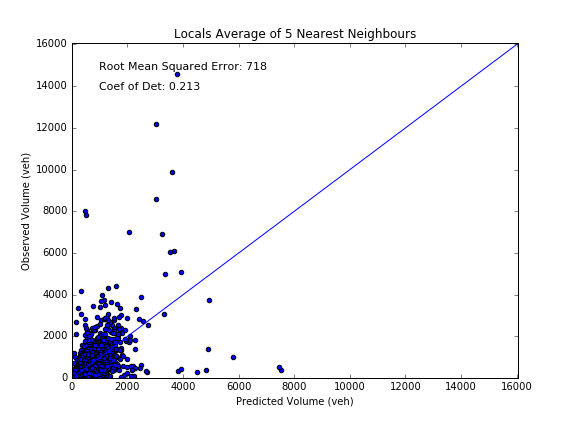
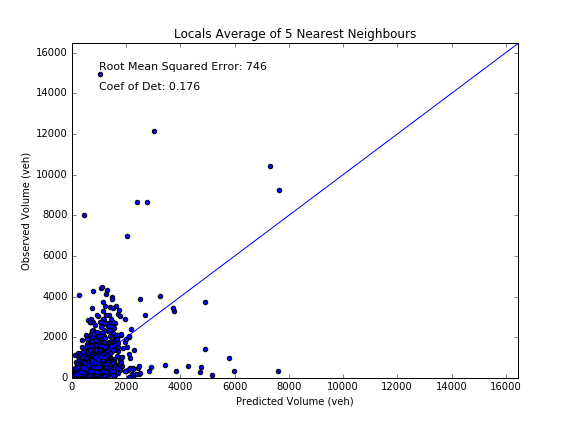
Fill in entire city by spatial relations
#43

diff --git a/volume_project/spatial_extrapolation/spatial_extrapolation.py b/volume_project/spatial_extrapolation/spatial_extrapolation.py
@@ -31,35 +31,107 @@ from utilities import vol_utils
 
 class spatial_extrapolation(vol_utils):    
 
-    def __init__(self, sample_size):
+    def __init__(self):
         self.logger = logging.getLogger('volume_project.spatial_extrapolation')
         super().__init__()
         self.rc_lookup = {201200:'Major Arterials', 201300:'Minor Arterials', 201400:'Collectors', 201500:'Locals'}
-        self.sample_size = sample_size
+           
+    def fill_all(self):
+        self.logger.info('Filling in Locals')
+        self.average_neighbours(201500)
+        self.logger.info('Filling in Collectors')
+        self.average_neighbours(201400)
+        self.logger.info('Filling in Minor Arterials')
+        self.linear_regression_directional(201300)
+        self.average_neighbours(201300)
+        self.logger.info('Filling in Major Arterials')
+        self.linear_regression_directional(201200)
+        self.average_neighbours(201200)
+        
+    def average_neighbours(self, road_class):
+        
+        data = self.get_sql_results("query_avg_neighbour_volumes.sql",columns = ['group_number', 'dir_bin', 'neighbour_vol'], parameters = [road_class])
+        data = [[None, a, 2015, b, c, 3] for a, b, c in zip(data['dir_bin'], data['neighbour_vol'], data['group_number'])]
+        self.db.inserttable('prj_volume.aadt', data)
+        self.logger.info('Uploaded results for road class ' + self.rc_lookup[road_class] +' to prj_volume.aadt. Estimated by averaging neighbour volumes')
+        
+    def average_neighbours_eval(self, road_class, sample_size):
+        if sample_size < 1:
+            sample_size = sample_size*100
+            
+        data = self.get_sql_results("query_avg_neighbour_volumes_eval.sql",columns = ['group_number','neighbour_vol','volume'], parameters = [road_class, sample_size])
+        y_predict = data['neighbour_vol']
+        y_test = data['volume']
+        
+        self.scatterplot(y_predict, y_test, road_class, r2_score(y_test, y_predict), 'neighbour_avg', ' Average of 5 Nearest Neighbours')
+        self.logger.info('Average of Neighbour Volumes Evaluation for road class' + self.rc_lookup[road_class] + 'done.')
         
     def get_coord_data(self, road_class):
-        
         return self.get_sql_results("query_coord_volume.sql",['from_x','from_y','to_x','to_y','volume'], parameters=[road_class])
-     
-    def GP_Kriging(self, data):
-        volume = np.array(data['volume'])
-        coord = np.array(data[['from_x','from_y','to_x','to_y']])
+
+    def get_directional_rel_groups(self, road_class):
+        return self.get_sql_results("query_relation_groups_train.sql",columns = ['group_number','neighbour_vol','volume'], parameters = [road_class])
         
-        coord = preprocessing.normalize(coord, axis=0)
-        x_train, x_test, y_train, y_test = train_test_split(coord, volume, test_size=self.sample_size/100, random_state=0)
-        kernel = RationalQuadratic(length_scale=1.0, length_scale_bounds=(1e-1, 10.0)) * RationalQuadratic(length_scale=1.0, length_scale_bounds=(1e-1, 10.0)) * ExpSineSquared(length_scale=1.0, length_scale_bounds=(1e-1, 10.0)) * ExpSineSquared(length_scale=1.0, length_scale_bounds=(1e-1, 10.0))
-        gp = GaussianProcessRegressor(kernel=kernel)
-        gp.fit(x_train, y_train)
+    def get_directional_rel_groups_test(self, road_class):
+        return self.get_sql_results("query_relation_groups_test.sql",columns = ['group_number','dir_bin', 'neighbour_vol'], parameters = [road_class])
         
-        y_mean = gp.predict(x_test, return_std=False)
-        plt.scatter(y_mean, y_test)
+    def get_neighbour_data(self, road_class, nNeighbours):
+        return self.get_sql_results("query_neighbour_volume.sql", columns = ['group_number','dir_bin','neighbour_vol'], parameters = [road_class, nNeighbours])
         
-        #lims = [np.min([plt.xlim(), plt.ylim()]), np.max([plt.xlim(), plt.ylim()])]
-        #plt.plot(lims, lims,'k-')
-        plt.show()
-    
-    def Linear_Regression_Prox(self, data, road_class):
-    
+    def linear_regression_directional(self, road_class, sample_size = 1):
+        if sample_size > 1:
+            sample_size = sample_size / 100
+            
+        data = self.get_directional_rel_groups(road_class)
+        self.logging.debug('Linear Regression Directional - Got Trainig Data')
+        neighb = list(data[data['neighbour_vol'].map(len) == 4]['neighbour_vol'])
+        orig = list(data[data['neighbour_vol'].map(len) == 4]['volume'])
+        if sample_size != 1:
+            x_train, x_test, y_train, y_test = train_test_split(neighb, orig, test_size=sample_size, random_state=0)
+        else:
+            x_train = neighb
+            y_train = orig
+        
+        regr = linear_model.LinearRegression()
+        regr.fit(x_train, y_train)
+        self.logging.debug('Linear Regression Directional - Trained')
+        if sample_size != 1:
+            y_predict = regr.predict(x_test)
+            self.scatterplot(y_predict, y_test, road_class, regr.score(x_test, y_test), 'directional_regr', ' Directional Linear Regression \n with 2 parallel and 2 perpendicular')
+            self.logger.info('Directional Linear Regression Evaluation for road class' + self.rc_lookup[road_class] + 'done.')
+        else:
+            data = self.get_directional_rel_groups_test(road_class)
+            data = data[data['neighbour_vol'].map(len) == 4]
+            y_predict = regr.predict(list(data['neighbour_vol']))
+            tabl = [[None, b, 2015, int(y), a, 2] for a,b,y in zip(data['group_number'], data['dir_bin'],y_predict)]
+            self.db.inserttable('prj_volume.aadt', tabl)
+            self.logger.info('Uploaded results for road class ' + self.rc_lookup[road_class] +' to prj_volume.aadt. Estimated by directional regression')
+            
+    def linear_regression_prox(self, road_class, nNeighbours):
+        data = self.get_coord_data(road_class)
+        self.logging.debug('Linear Regression Proximity - Got Trainig Data')
+        
+        dist = np.array(data[['from_x','from_y','to_x','to_y']])
+        kdt = KDTree(dist, nNeighbours + 1)
+        orig = np.asarray([data['volume'].iloc[kdt.query(l,k=5)[1]].iloc[0] for l in dist])
+        neighb = []
+        for i in range(nNeighbours):
+            neighb.append([data['volume'].iloc[kdt.query(l,k=11)[1]].iloc[i+1] for l in dist])
+        neighb = np.asarray(neighb).T
+        regr = linear_model.LinearRegression()
+        regr.fit(neighb, orig)
+        self.logging.debug('Linear Regression Proximity - Trained')       
+        
+        data = self.get_neighbour_data(road_class, nNeighbours)
+        y_predict = regr.predict(list(data['neighbour_vol']))
+
+        data = [[None, a, 2015, int(b), c, 4] for a, b, c in zip(data['dir_bin'],y_predict, data['group_number'])]
+
+        self.db.inserttable('prj_volume.aadt', data)
+        self.logger.info('Uploaded results for road class ' + self.rc_lookup[road_class] +' to prj_volume.aadt. Estimated by linear regression(proximity)')
+        
+    def linear_regression_prox_eval(self, road_class, sample_size=0.3):
+        data = self.get_coord_data(road_class)
         dist = np.array(data[['from_x','from_y','to_x','to_y']])
         kdt = KDTree(dist, 12)
         
@@ -68,14 +140,14 @@ class spatial_extrapolation(vol_utils):
         for i in range(10):
             neighb.append([data['volume'].iloc[kdt.query(l,k=11)[1]].iloc[i+1] for l in dist])
         neighb = np.asarray(neighb).T
-        x_train, x_test, y_train, y_test = train_test_split(neighb, orig, test_size=self.sample_size/100, random_state=0)    
+        x_train, x_test, y_train, y_test = train_test_split(neighb, orig, test_size=sample_size, random_state=0)    
         regr = linear_model.LinearRegression()
         score = []
         for i in range(10):
             regr.fit(x_train[:,0:i+1], y_train)
             y_predict = regr.predict(x_test[:,0:i+1])
             if i == 9:
-                self.ScatterPlot(y_predict, y_test, road_class, regr.score(x_test, y_test), 'proximikty_regr',  ' Linear Regression (by proximity) \n with ' + str(i+2) + ' neighbours')
+                self.scatterplot(y_predict, y_test, road_class, regr.score(x_test, y_test), 'proximikty_regr',  ' Linear Regression (by proximity) \n with ' + str(i+2) + ' neighbours')
                 
             score.append(np.sqrt(mean_squared_error(y_test,y_predict)))
             
@@ -85,28 +157,9 @@ class spatial_extrapolation(vol_utils):
         ax.set_xlabel('Number of Neighbour')
         ax.set_ylabel('Root Mean Squared Error (veh)')
         fig.savefig('spatial_extrapolation/img/'+self.rc_lookup[road_class].lower().replace(' ', '_') +'_proximity_regr_scores.png')
-    
-    def Linear_Regression_Directional(self, road_class):
-    
-        data = self.get_sql_results("query_relation_groups.sql",columns = ['group_number','neighbour_vol','volume'], parameters = [road_class])
-        neighb = list(data[data['neighbour_vol'].map(len) == 4]['neighbour_vol'])
-        orig = list(data[data['neighbour_vol'].map(len) == 4]['volume'])
-        x_train, x_test, y_train, y_test = train_test_split(neighb, orig, test_size=self.sample_size, random_state=0)
+
         
-        regr = linear_model.LinearRegression()
-        regr.fit(x_train, y_train)
-        y_predict = regr.predict(x_test)
-        
-        self.ScatterPlot(y_predict, y_test, road_class, regr.score(x_test, y_test), 'directional_regr', ' Directional Linear Regression \n with 2 parallel and 2 perpendicular')
-        
-    def Average_Neighbours(self, road_class):
-        data = self.get_sql_results("query_avg_neighbour_volumes.sql",columns = ['group_number','neighbour_vol','volume'], parameters = [road_class, self.sample_size])
-        y_predict = data['neighbour_vol']
-        y_test = data['volume']
-        
-        self.ScatterPlot(y_predict, y_test, road_class, r2_score(y_test, y_predict), 'neighbour_avg', ' Average of 5 Nearest Neighbours')
-    
-    def ScatterPlot(self, y_predict, y_test, road_class, coef_det, estimation_method, title_notes):
+    def scatterplot(self, y_predict, y_test, road_class, coef_det, estimation_method, title_notes):
         
         fig, ax = plt.subplots(figsize=[8,6])
         
@@ -123,3 +176,24 @@ class spatial_extrapolation(vol_utils):
         ax.annotate('Root Mean Squared Error: ' + "{:.0f}".format(np.sqrt(mean_squared_error(y_test,y_predict))), xy=((x[1]-x[0])*0.06+x[0], x[1]*0.92), fontsize = 11)
         ax.annotate('Coef of Det: ' + "{:.3f}".format(coef_det), xy=((x[1]-x[0])*0.06+x[0], x[1]*0.86), fontsize = 11)
         fig.savefig('spatial_extrapolation/img/'+self.rc_lookup[road_class].lower().replace(' ','_') + '_' + estimation_method + '.png')
+        
+'''
+# Backup functions
+    def GP_Kriging(self, data):
+        volume = np.array(data['volume'])
+        coord = np.array(data[['from_x','from_y','to_x','to_y']])
+        
+        coord = preprocessing.normalize(coord, axis=0)
+        x_train, x_test, y_train, y_test = train_test_split(coord, volume, test_size=sample_size/100, random_state=0)
+        kernel = RationalQuadratic(length_scale=1.0, length_scale_bounds=(1e-1, 10.0)) * RationalQuadratic(length_scale=1.0, length_scale_bounds=(1e-1, 10.0)) * ExpSineSquared(length_scale=1.0, length_scale_bounds=(1e-1, 10.0)) * ExpSineSquared(length_scale=1.0, length_scale_bounds=(1e-1, 10.0))
+        gp = GaussianProcessRegressor(kernel=kernel)
+        gp.fit(x_train, y_train)
+        
+        y_mean = gp.predict(x_test, return_std=False)
+        plt.scatter(y_mean, y_test)
+        
+        #lims = [np.min([plt.xlim(), plt.ylim()]), np.max([plt.xlim(), plt.ylim()])]
+        #plt.plot(lims, lims,'k-')
+        plt.show()
+
+'''       

diff --git a/volume_project/run.py b/volume_project/run.py
@@ -79,7 +79,6 @@ class prepare_flow_data(vol_utils):
         self.execute_sql("create-table-cluster_atr_volumes.sql")
         
     def __exit__(self):
-     
         self.db.close()
         
 if __name__ == '__main__':
@@ -92,7 +91,7 @@ if __name__ == '__main__':
         formatter = logging.Formatter('%(asctime)s - %(name)s - %(levelname)s - %(message)s')
         handler.setFormatter(formatter)
         logger.addHandler(handler)
-    '''
+    
     pfd = prepare_flow_data()
     
     tStart = datetime.now()        
@@ -125,10 +124,9 @@ if __name__ == '__main__':
     vol, non = tex.testing_entire_TO()
     del tex
     logger.info('Finished calculating AADT for Toronto in %s', str(datetime.now()-tStart))   
-    '''
-    spa = spatial_extrapolation(30)
-    for road_class in [201300,201400,201500]:
-        #spa.Linear_Regression_Prox(spa.get_coord_data(road_class), road_class)
-        #spa.Linear_Regression_Directional(road_class)
-        spa.Average_Neighbours(road_class)
+   
+    tStart = datetime.now()
+    spa = spatial_extrapolation()
+    spa.fill_all()
     del spa
+    logger.info('Finished filling in AADT for Toronto in %s', str(datetime.now()-tStart))      

diff --git a/volume_project/spatial_extrapolation/README.md b/volume_project/spatial_extrapolation/README.md
@@ -6,13 +6,13 @@ To fill in gaps in the City of Toronto's count program in order to provide a com
 ## Methodology
 Several methods are tested for this purpose and are detailed below.
 
-1. Average of Nearest Neighbours  
+1. Average of Nearest Neighbours  (confidence code = 3)
 nearest neighbours: 5 (or less) segments of the same road class that are maximum 300m (nearest point to point distance) away from the target segment
 
-2. Linear Regression (Based on Proximity only)  
+2. Linear Regression (Based on Proximity only)  (confidence code = 4)
 Take the volumes of the nearest 5 segments of the same road class as dependent variables (ordered by proximity).
 
-3. Linear Regression (Directional)  
+3. Linear Regression (Directional)  (confidence code = 2)
 Take the volumes of the nearest 2 parallel segments and 2 perpendicular segments as dependent variables.
 
 4. Kriging   
@@ -59,5 +59,14 @@ Coef. of Det.|0.230|0.046|0.213|
 
 ![locals_proximity_regr_scores](img/locals_proximity_regr_scores.png)
 
-## Current Implementation
+## Implementation
+
+Directional linear regression is noticeably superior than the other two methods
+
+|Road Class|Method|
+|----------|------|
+|Major Arterials|Directional Linear Regression|
+|Minor Arterials|Directional Linear Regression|
+|Collectors|Average of Neighbours|
+|Locals|Average of Neighbours|
 
